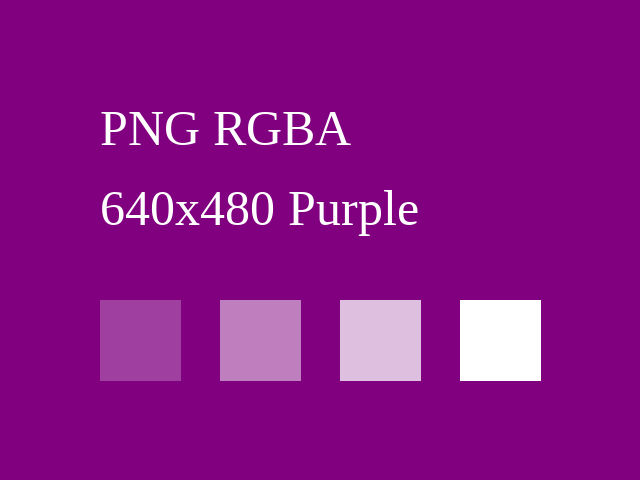
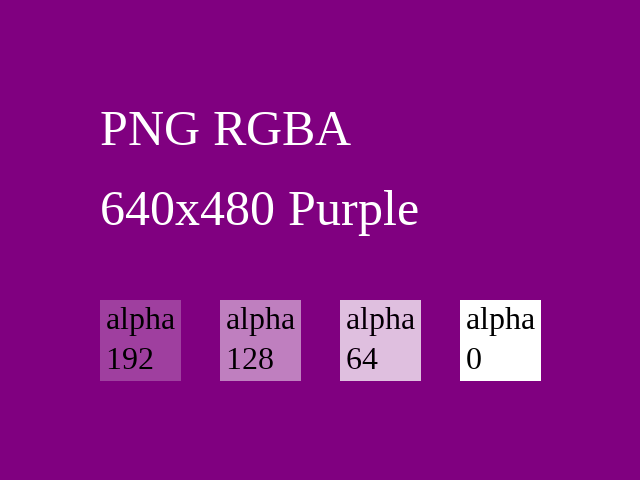
Fix handling of PNG transparency

diff --git a/pictureshow/core.py b/pictureshow/core.py
@@ -42,7 +42,8 @@ class PictureShow:
                     picture.getSize(), (area.width, area.height), stretch_small
                 )
                 pdf_canvas.drawImage(
-                    picture, area.x + x, area.y + y, pic_width, pic_height
+                    picture, area.x + x, area.y + y, pic_width, pic_height,
+                    mask='auto'
                 )
                 num_ok += 1
             pdf_canvas.showPage()

diff --git a/README.rst b/README.rst
@@ -100,7 +100,7 @@ Using the ``PictureShow`` class:
 
     from pictureshow import PictureShow
 
-    pic_show = PictureShow('pics/mandelbrot.png', 'pics/darkcyan.jpg')
+    pic_show = PictureShow('pics/mandelbrot.jpg', 'pics/darkcyan.png')
     pic_show.save_pdf('pictures.pdf')
 
 Result:
@@ -114,7 +114,7 @@ Using the ``pictures_to_pdf`` shortcut function:
 
     from pictureshow import pictures_to_pdf
 
-    pictures_to_pdf('pics/mandelbrot.png', 'pics/darkcyan.jpg', 'pictures.pdf')
+    pictures_to_pdf('pics/mandelbrot.jpg', 'pics/darkcyan.png', 'pictures.pdf')
 
 The example above will work as long as the output file is passed as the last positional argument. It is however recommended to always use a keyword argument:
 
@@ -122,7 +122,7 @@ The example above will work as long as the output file is passed as the last pos
 
     from pictureshow import pictures_to_pdf
 
-    list_of_pictures = ['pics/mandelbrot.png', 'pics/darkcyan.jpg']
+    list_of_pictures = ['pics/mandelbrot.jpg', 'pics/darkcyan.png']
     pictures_to_pdf(*list_of_pictures, pdf_file='pictures.pdf')
 
 Another example, demonstrating all available keyword parameters:
